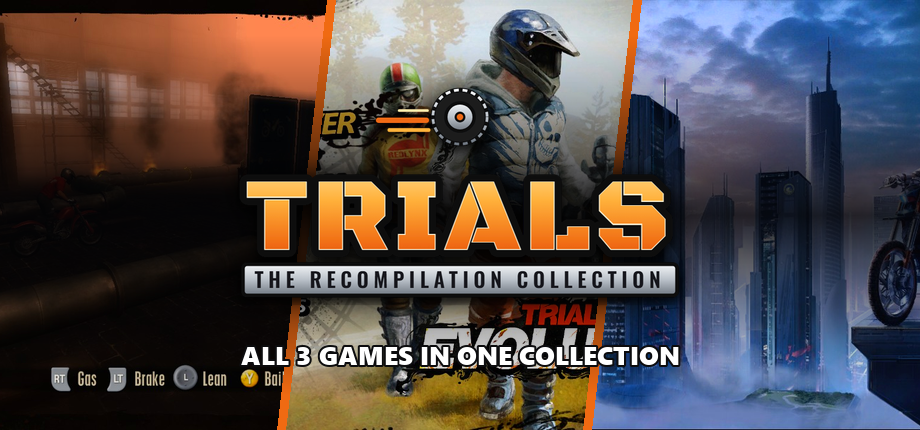
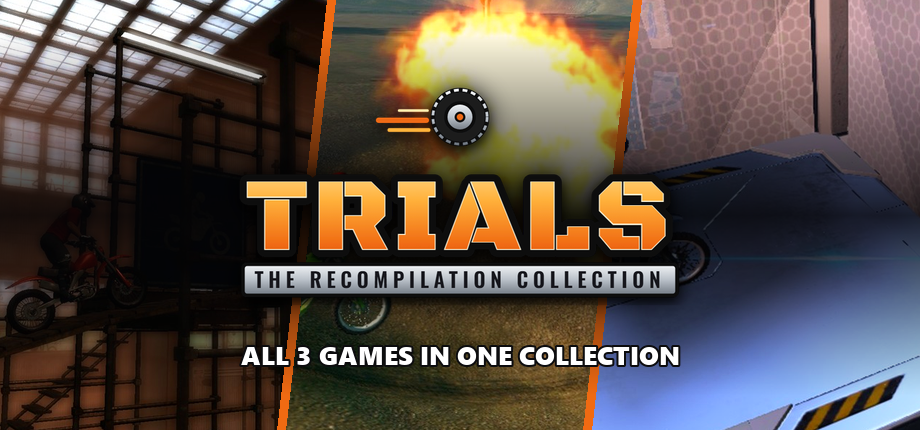
README, gameplay images, launcher screenshots and the Steam art; Evolution and Fusion keep their original resolution
Their virtual textures turn to noise at a higher render scale, so the launcher offers them only the upscaler and the
games ignore any render scale.

diff --git a/src/settings_screen.cpp b/src/settings_screen.cpp
@@ -273,11 +273,16 @@ std::vector<Section> GameSections(App& app, int g) {
              "a screen of another shape.", "present_letterbox", true);
   }});
 
-  s.push_back({"Graphics", [&st](Rows& r) {
+  s.push_back({"Graphics", [&st, g](Rows& r) {
     // Upscaler and its mode as in King Kong Recompiled 1.9.x: the mode picks
     // the render scale from the screen when the game starts (render_quality.cpp in each game); with the upscaler
-    // off the render resolution is chosen directly.
-    if (r.Choice("Upscaler", "Scales the picture up to your screen. AMD FSR 1 works on any graphics card, NVIDIA NIS "
+    // off the render resolution is chosen directly. Evolution and Fusion always draw at their original resolution
+    // (their virtual textures break at a higher one), so they only have the upscaler.
+    if (std::string(Games()[g].id) != "trials_hd") {
+      r.Choice("Upscaler", "Scales the picture up to your screen. AMD FSR 1 works on any graphics card, NVIDIA NIS "
+               "suits NVIDIA cards. This game draws at its original resolution.", "present_effect", "bilinear",
+               {{"bilinear", "Off"}, {"fsr", "AMD FSR 1"}, {"nis", "NVIDIA NIS"}});
+    } else if (r.Choice("Upscaler", "Scales the picture up to your screen. AMD FSR 1 works on any graphics card, NVIDIA NIS "
                  "suits NVIDIA cards. Off draws at the render resolution you choose.", "present_effect", "bilinear",
                  {{"bilinear", "Off"}, {"fsr", "AMD FSR 1"}, {"nis", "NVIDIA NIS"}})) {
       const bool on = st.Get("present_effect", "bilinear") != "bilinear";

diff --git a/games/shared/src/render_quality.cpp b/games/shared/src/render_quality.cpp
@@ -63,13 +63,25 @@ int ScaleFor(std::string_view mode, int output_height) {
 
 }  // namespace
 
-void ApplyRenderQuality(rex::ui::Window* window) {
+void ApplyRenderQuality(rex::ui::Window* window, bool can_scale) {
   // The guest video mode: always 1280 x 720. The default becomes 0 so that 1280 counts as set and wins over a
   // window size (HasNonDefaultValue compares with the default).
   for (const char* name : {"video_mode_width", "video_mode_height"}) SetCvarDefault(name, "0");
   rex::cvar::SetFlagByName("video_mode_width", "1280");
   rex::cvar::SetFlagByName("video_mode_height", "720");
 
+  if (!can_scale) {
+    // Trials Evolution and Trials Fusion build their virtual textures with pixel shaders that write memory; at a
+    // higher render scale those writes land in the wrong places and surfaces turn to noise. Always the original
+    // resolution, whatever the settings say (the upscaler still scales the picture to the screen).
+    rex::cvar::ResetToDefault("resolution_scale");
+    for (const char* axis : {"draw_resolution_scale_x", "draw_resolution_scale_y"}) {
+      SetCvarDefault(axis, "1");
+      rex::cvar::SetFlagByName(axis, "1");
+    }
+    REXLOG_INFO("Trials: render scale kept at 1x");
+    return;
+  }
   const std::string mode = REXCVAR_GET(trials_render_quality);
   // Output height in physical pixels: the screen in fullscreen, else the window.
   // The window is not sized yet here, so windowed uses the window height setting (logical units, times the

diff --git a/games/trials_evolution/src/trials_evolution_app.h b/games/trials_evolution/src/trials_evolution_app.h
@@ -27,7 +27,7 @@ void InstallFpeGuard();                     // fpe_guard.cpp
 void ApplyPortDefaults();                   // port_defaults.cpp
 rex::ui::FrameStats GuestFrameStats();      // frame_stats.cpp
 void ApplyFrameRate();                      // frame_limit.cpp (shared)
-void ApplyRenderQuality(rex::ui::Window* window);  // render_quality.cpp
+void ApplyRenderQuality(rex::ui::Window* window, bool can_scale);  // render_quality.cpp
 std::unique_ptr<rex::ui::AchievementNotificationDialog> CreateAchievementToast(
     rex::ui::ImGuiDrawer* drawer, rex::ui::ImmediateDrawer* immediate, rex::Runtime* runtime);  // achievement_toast.cpp
 void ExportAchievements(rex::Runtime* runtime, const std::filesystem::path& game_data_root);  // achievements_export.cpp
@@ -68,7 +68,7 @@ class TrialsEvolutionApp : public rex::ReXApp {
   std::optional<rex::PathConfig> OnFinalizePaths(const rex::PathConfig& defaults,
                                                  std::function<void(rex::PathConfig)> resume) override {
     (void)resume;
-    trials::ApplyRenderQuality(window());
+    trials::ApplyRenderQuality(window(), false);
     return defaults;
   }
 

diff --git a/games/trials_fusion/src/trials_fusion_app.h b/games/trials_fusion/src/trials_fusion_app.h
@@ -25,7 +25,7 @@ void InstallFpeGuard();                     // fpe_guard.cpp
 void ApplyPortDefaults();                   // port_defaults.cpp
 rex::ui::FrameStats GuestFrameStats();      // frame_stats.cpp
 void ApplyFrameRate();                      // frame_limit.cpp (shared)
-void ApplyRenderQuality(rex::ui::Window* window);  // render_quality.cpp
+void ApplyRenderQuality(rex::ui::Window* window, bool can_scale);  // render_quality.cpp
 std::unique_ptr<rex::ui::AchievementNotificationDialog> CreateAchievementToast(
     rex::ui::ImGuiDrawer* drawer, rex::ui::ImmediateDrawer* immediate, rex::Runtime* runtime);  // achievement_toast.cpp
 void ExportAchievements(rex::Runtime* runtime, const std::filesystem::path& game_data_root);  // achievements_export.cpp
@@ -62,7 +62,7 @@ class TrialsFusionApp : public rex::ReXApp {
   std::optional<rex::PathConfig> OnFinalizePaths(const rex::PathConfig& defaults,
                                                  std::function<void(rex::PathConfig)> resume) override {
     (void)resume;
-    trials::ApplyRenderQuality(window());
+    trials::ApplyRenderQuality(window(), false);
     return defaults;
   }
 

diff --git a/games/trials_hd/src/trials_hd_app.h b/games/trials_hd/src/trials_hd_app.h
@@ -25,7 +25,7 @@ void InstallFpeGuard();                     // fpe_guard.cpp
 void ApplyPortDefaults();                   // port_defaults.cpp
 rex::ui::FrameStats GuestFrameStats();      // frame_stats.cpp
 void ApplyFrameRate();                      // frame_stats.cpp
-void ApplyRenderQuality(rex::ui::Window* window);  // render_quality.cpp
+void ApplyRenderQuality(rex::ui::Window* window, bool can_scale);  // render_quality.cpp
 std::unique_ptr<rex::ui::AchievementNotificationDialog> CreateAchievementToast(
     rex::ui::ImGuiDrawer* drawer, rex::ui::ImmediateDrawer* immediate, rex::Runtime* runtime);  // achievement_toast.cpp
 void ExportAchievements(rex::Runtime* runtime, const std::filesystem::path& game_data_root);  // achievements_export.cpp
@@ -62,7 +62,7 @@ class TrialsHdApp : public rex::ReXApp {
   std::optional<rex::PathConfig> OnFinalizePaths(const rex::PathConfig& defaults,
                                                  std::function<void(rex::PathConfig)> resume) override {
     (void)resume;
-    trials::ApplyRenderQuality(window());
+    trials::ApplyRenderQuality(window(), true);
     return defaults;
   }
 

diff --git a/README.md b/README.md
@@ -1,0 +1,251 @@
+<div align="center">
+
+<img src="docs/images/header.jpg" alt="Trials The Recompilation Collection: all 3 games on PC" width="100%">
+
+### Trials HD, Trials Evolution and Trials Fusion on PC, running natively, in one launcher made for the couch.
+
+[<img src="https://img.shields.io/badge/Download-Windows%20x64-f06a12?style=for-the-badge&logo=windows&logoColor=white&labelColor=101012" alt="Download for Windows" height="44">](https://github.com/TekRantGaming/trials-recompilation-collection/releases/latest)
+&nbsp;
+[<img src="https://img.shields.io/badge/Discord-Join%20the%20community-5865F2?style=for-the-badge&logo=discord&logoColor=white&labelColor=101012" alt="Join the Discord" height="44">](https://discord.gg/8eakYSvBZS)
+
+[![Latest release](https://img.shields.io/github/v/release/TekRantGaming/trials-recompilation-collection?style=flat-square&label=release&color=f06a12&labelColor=101012)](https://github.com/TekRantGaming/trials-recompilation-collection/releases/latest)
+[![Downloads](https://img.shields.io/github/downloads/TekRantGaming/trials-recompilation-collection/total?style=flat-square&color=2a8ff2&labelColor=101012)](https://github.com/TekRantGaming/trials-recompilation-collection/releases)
+![Platform](https://img.shields.io/badge/platform-Windows%2010%20%7C%2011-5b7a8c?style=flat-square&labelColor=101012)
+![Games](https://img.shields.io/badge/games-3-f06a12?style=flat-square&labelColor=101012)
+
+<br>
+
+<img src="docs/images/launcher-home.jpg" alt="The launcher's Home screen" width="100%">
+
+<img src="docs/images/trials-hd-scaffold.jpg" alt="Trials HD: the scaffolding in the warehouse" width="32%">
+<img src="docs/images/trials-evolution-fire.jpg" alt="Trials Evolution: an explosion beside the track" width="32%">
+<img src="docs/images/trials-fusion-city.jpg" alt="Trials Fusion: the start of a city track" width="32%">
+
+<sub>The original Xbox 360 game code, translated to native PC code with the <a href="https://github.com/rexglue/rexglue-sdk">ReXGlue SDK</a>. <b>No game files included</b>: bring your own copy of each Xbox Live Arcade game.</sub>
+
+</div>
+
+<br>
+
+## At a glance
+
+| | | |
+| :--- | :--- | :--- |
+| 🏍 **All 3 games** in one launcher | 🖥 **Up to 4K and beyond**, at 60, 120 or an **unlimited** frame rate | ✨ **AMD FSR 1 and NVIDIA NIS** upscaling |
+| 🎮 **Any controller**, or the keyboard with your own keys | 🏆 **Achievements** with notifications in game | ↩ **Back to the launcher** any time: hold Back + Start, or Esc |
+| 📦 **Install from your own packages**, found on your PC by themselves | 🔓 **The full game, always**: never the trial version | 🔄 **Updates itself** and every game |
+| 💾 **Save backups** and restore in one click | 🛋 **A console style dashboard** with sounds, made for a controller | 🪟 **Borderless fullscreen**, windowed, any monitor |
+| 🚂 **Add to Steam** with its own artwork, ready for Big Picture | 💬 **[Join the Discord](https://discord.gg/8eakYSvBZS)** right from Home | 🦍 **Other TRG Projects**, with King Kong Recompiled ready to install |
+
+## The games
+
+<div align="center">
+
+### Trials HD
+
+<img src="docs/images/trials-hd-start.jpg" alt="The start of a warehouse track" width="49%">
+<img src="docs/images/trials-hd-scaffold.jpg" alt="Climbing the scaffolding" width="49%">
+<sub><b>Where it all began.</b> One bike, one rider and a warehouse full of obstacles, all down to throttle, brake and balance.</sub>
+
+<br><br>
+
+### Trials Evolution
+
+<img src="docs/images/trials-evolution-fire.jpg" alt="Riding past an explosion" width="49%">
+<img src="docs/images/trials-evolution-wheelie.jpg" alt="A wheelie over the dirt jumps" width="49%">
+<sub><b>The tracks leave the warehouse.</b> Huge outdoor tracks, explosions and the Career from the D License up.</sub>
+
+<br><br>
+
+### Trials Fusion
+
+<img src="docs/images/trials-fusion-city.jpg" alt="The start of a city track" width="49%">
+<img src="docs/images/trials-fusion-ramp.jpg" alt="Racing up a ramp" width="49%">
+<sub><b>Tricks and tracks in a bright future.</b> Futuristic cities, new bikes and the tracks of the whole Career.</sub>
+
+</div>
+
+<br>
+
+## Getting started
+
+**You need:** Windows 10 or 11 (64 bit) with a DirectX 12 graphics card, and the Xbox Live Arcade package of each game you want to play, copied from your own console (see [Which packages you need](#which-packages-you-need)).
+
+1. Download **TrialsCollection-...-windows-x64.zip** from the [latest release](https://github.com/TekRantGaming/trials-recompilation-collection/releases/latest) and unzip it anywhere. It holds the launcher and all three games, and everything stays in that folder, so it's portable.
+2. Run **trials_launcher.exe**. It opens in fullscreen on Home. Windows may warn about an unknown publisher the first time: choose **More info**, then **Run anyway**.
+3. Pick a game and press **Play**. The first time, the launcher asks for your copy of that game: it finds packages on your PC by itself (or choose the package file, or a folder it was already extracted to), checks it really is that game and copies the game files next to the game.
+4. Press **Play** again, and from then on it starts straight away.
+
+While you play, **hold Back and Start** on the controller, or **hold Esc**, to come back to the launcher. **No game files are included**: they come from your own copies. Xbox Live Arcade games run as their trial unless they were bought, so the collection always unlocks the full game: please only use copies you own. Your saves are kept in `Documents\trials_hd`, `Documents\trials_evolution` and `Documents\trials_fusion`.
+
+### Which packages you need
+
+Each game is one file on your console's storage, in `Content\0000000000000000\<title ID>\000D0000`. Only the title ID is checked, so any copy of these games works. These are the packages the ports were made and tested with:
+
+| Game | Title ID | Media ID | Version | Package | SHA1 | Installed |
+| --- | --- | --- | --- | --- | --- | --- |
+| Trials HD | `5841095A` | `22E417BF` | `0.0.1.2` | 217,092,096 bytes | `CAD16E3104B3C584773E1A3F813DF923642CBA94` | about 210 MB |
+| Trials Evolution | `58410AAD` | `739182AD` | `0.0.0.3` | 1,316,257,792 bytes | `6BD8FBCDFC45911F1317D462DC24440C1F277BA1` | about 1.3 GB |
+| Trials Fusion | `58411401` | `5AF34C9D` | `0.0.0.3` | 1,632,141,312 bytes | `5695B9CB78B1A1925043874DAA83BBF7564CE2AA` | about 1.6 GB |
+
+The base games only: downloadable content and title updates are not supported yet. The launcher's install screen shows every detail for each package, MD5 and CRC32 too. To check a package yourself, run this in PowerShell and compare the result with the SHA1 above:
+
+```powershell
+Get-FileHash "C:\Games\Trials HD\6E133151FC02CFA6D6653C9AAE46D1DC8014605158" -Algorithm SHA1
+```
+
+## The launcher
+
+Everything is set up before a game starts, with a controller, the keyboard or the mouse. Each game has its own page and its own settings.
+
+<table>
+<tr>
+<td width="55%"><img src="docs/images/launcher-home.jpg" alt="Home screen"></td>
+<td valign="middle">
+
+### Home
+- **All three games** side by side, with their box art and artwork
+- Each game shows at a glance whether it's **ready to play**, its version and your **achievements**
+- **Settings** for the launcher, and **Other TRG Projects**
+- **Add to Steam**: adds the collection to your Steam library as a non Steam game, with its own artwork (cover, banner, header, logo and icon), and switches Steam Input off for it so your controller keeps working
+- **Discord**: joins the official server
+- Plays with a **controller**, the **keyboard** or the **mouse**, with interface sounds
+
+</td>
+</tr>
+<tr>
+<td valign="middle">
+
+### Game page
+- **Play**, the only place a game starts
+- **Settings** and **Saves and install** for that game
+- Your **achievements** so far, your **save backups** and the **release notes** of its latest version
+
+</td>
+<td width="55%"><img src="docs/images/launcher-game.jpg" alt="A game's page"></td>
+</tr>
+<tr>
+<td><img src="docs/images/launcher-install.jpg" alt="Install from your own copy"></td>
+<td valign="middle">
+
+### Install from your own copy
+- The launcher **finds packages** on your PC by itself, or you **choose the package file** or an **extracted folder**
+- A card shows **exactly which package works**: title ID, media ID, version, size, SHA1, MD5 and CRC32
+- It checks the package really is that game, then copies the files with a progress bar
+
+</td>
+</tr>
+<tr>
+<td valign="middle">
+
+### Display and Graphics
+- **Fullscreen** or **windowed**, window size, **choose the monitor**, vertical sync
+- **Frame rate**: 30, **60** (the default, like the Xbox 360), 120, 144, 165, 240 or **no limit**. The games still run at the right speed
+- **Upscaler**: AMD FSR 1 or NVIDIA NIS
+- **Render resolution** in Trials HD from the original 720p up to 6x, also through the upscaler's Native, Quality, Balanced and Performance modes
+- **FXAA** and **texture filtering** up to 16x
+- **Keep the original shape** with black bars, or stretch to fill
+
+</td>
+<td width="55%"><img src="docs/images/launcher-graphics.jpg" alt="Graphics page"></td>
+</tr>
+<tr>
+<td><img src="docs/images/launcher-controller.jpg" alt="Controller page"></td>
+<td valign="middle">
+
+### Controller and keyboard
+- **Stick deadzone** and **vibration** strength
+- **Remap any button** on your controller, in the menus too
+- **Keyboard** play with your own key bindings
+
+</td>
+</tr>
+<tr>
+<td valign="middle">
+
+### Achievements
+- All the achievements of each game, with their pictures and gamerscore
+- **Notifications in game** when you unlock one, with their sound on or off and its volume
+- A **test button** to see and hear it
+
+</td>
+<td width="55%"><img src="docs/images/launcher-achievements.jpg" alt="Achievements page"></td>
+</tr>
+<tr>
+<td><img src="docs/images/launcher-projects.jpg" alt="Other TRG Projects"></td>
+<td valign="middle">
+
+### Other TRG Projects
+- The other **TekRant Gaming** ports, with their artwork and a link to each
+- **King Kong Recompiled** downloads and plays right from here
+
+</td>
+</tr>
+</table>
+
+### Saves and updates
+
+Each game's **Saves and install** page backs up your saves and restores them, opens the save, backup and game folders, reinstalls from your copy or removes the game. When the launcher opens it checks GitHub for new versions of itself and of each game and **installs them by themselves**, restarting into a new launcher once nothing else is going on; your games, saves and settings stay as they are. Turn that off in the launcher's own **Settings**.
+
+## Xbox 360 vs PC
+
+| | Xbox 360 | PC |
+| --- | :---: | :---: |
+| Resolution | 1280 x 720 | Trials HD up to 6x (7680 x 4320); Evolution and Fusion at their original resolution, upscaled to your screen |
+| Frame rate | 60 fps | 30, 60, 120, 144, 165, 240 or no limit |
+| Upscaling | none | AMD FSR 1 or NVIDIA NIS |
+| Anti aliasing | console | FXAA, or higher resolutions |
+| Texture filtering | console | up to 16x |
+| Display | TV | borderless fullscreen or windowed, any monitor |
+| Controls | Xbox 360 controller | any controller, remapping, keyboard |
+| Achievements | console | notifications in game, with sound |
+| Three games | three downloads | one launcher |
+
+## Good to know
+
+### Hotkeys
+
+| Key | Action |
+| --- | --- |
+| Hold <kbd>Back</kbd> + <kbd>Start</kbd>, or hold <kbd>Esc</kbd> | back to the launcher while playing |
+| <kbd>F11</kbd> | the launcher fullscreen or windowed |
+
+### Known limits
+
+- **Trials Evolution and Trials Fusion draw at their original resolution.** Their tracks are textured by the GPU itself, and that does not survive a higher render resolution yet; the upscaler still scales the picture to your screen.
+- **No online play**: leaderboards, multiplayer and Track Central need Xbox Live.
+- **Base games only** for now: no downloadable content or title updates.
+
+### Reporting a problem
+
+Please open an [issue](https://github.com/TekRantGaming/trials-recompilation-collection/issues) with the game, what happened, your CPU, graphics card and the resolution and frame rate you play at, or ask on the [Discord](https://discord.gg/8eakYSvBZS).
+
+## About the games
+
+*Trials HD* (2009), *Trials Evolution* (2012) and *Trials Fusion* (2014) were made by RedLynx. Trials HD and Trials Evolution were published by Microsoft Studios on Xbox Live Arcade, Trials Fusion by Ubisoft. Each is a physics driven motorbike game: throttle, brake and the rider's balance against tracks full of ramps, loops and explosions.
+
+This collection runs the Xbox 360 versions natively on Windows and adds the options you would expect from a PC release.
+
+<details>
+<summary><b>Building from source (for developers)</b></summary>
+
+See [BUILDING.md](BUILDING.md). The game code is generated from each game's own `default.xex`, so building a game needs your own copy too.
+
+</details>
+
+## Credits
+
+- **Trials HD**, **Trials Evolution** and **Trials Fusion** by RedLynx, published by Microsoft Studios and Ubisoft.
+- [**ReXGlue SDK**](https://github.com/rexglue/rexglue-sdk), which does the code translation and runs the games, built on the work of [**Xenia**](https://github.com/xenia-project/xenia) and [**XenonRecomp**](https://github.com/hedge-dev/XenonRecomp).
+- [**Trials HD Recompiled**](https://github.com/snufflyyy/trials-hd-recompiled) by snufflyyy (MIT): the first recompilation of Trials HD, its function list, the frame smoothing above 60 FPS and the package reader. See [THIRD_PARTY_NOTICES.md](THIRD_PARTY_NOTICES.md).
+- [**Dear ImGui**](https://github.com/ocornut/imgui), [**SDL**](https://www.libsdl.org) and [**stb**](https://github.com/nothings/stb) for the launcher.
+- The [**TRG Launcher**](https://github.com/TekRantGaming/trg-launcher) (updater and settings), shared by the TekRant Gaming ports.
+- Game artwork in the launcher from [**SteamGridDB**](https://www.steamgriddb.com), downloaded when the launcher runs.
+- The Discord and Steam marks from [**Simple Icons**](https://simpleicons.org) (CC0). Discord and Steam are trademarks of their owners.
+- Upscaling: [**AMD FidelityFX Super Resolution 1**](https://github.com/GPUOpen-Effects/FidelityFX-FSR) and the [**NVIDIA Image Scaling SDK**](https://github.com/NVIDIAGameWorks/NVIDIAImageScaling), both MIT licensed.
+
+> [!NOTE]
+> **AI disclosure:** this collection was made almost entirely with Claude Code (Anthropic). The repository owner directed and tested the work; the AI did the analysis, code, tools and documentation.
+
+> [!IMPORTANT]
+> This project is not affiliated with or endorsed by RedLynx, Ubisoft, Microsoft, Valve or Discord. All trademarks belong to their owners. It contains no game code or assets. Do not open issues asking for game files.
